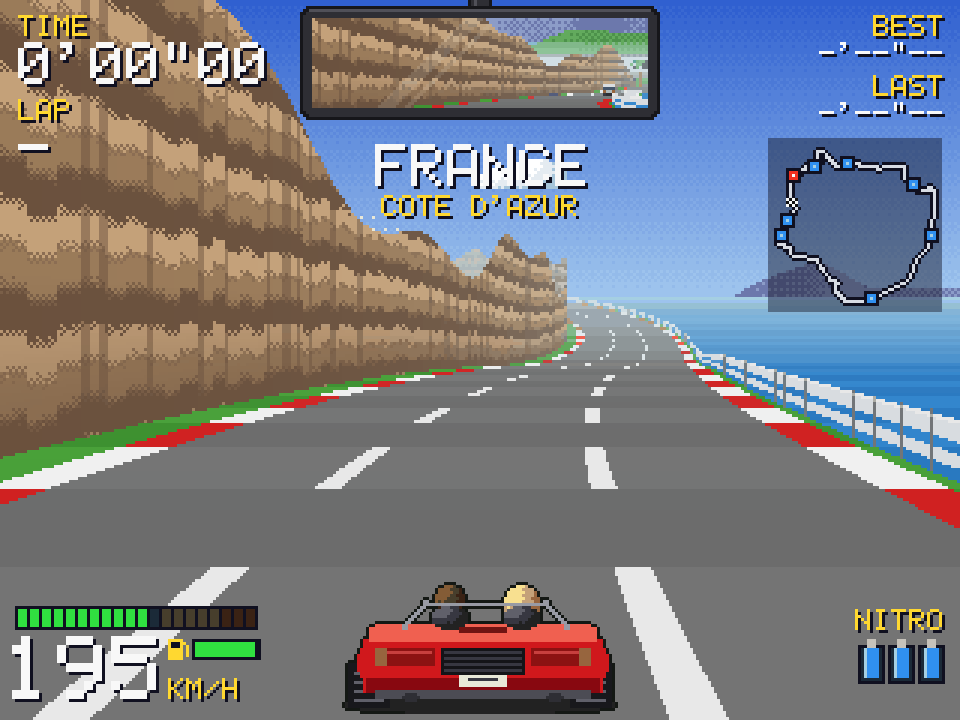
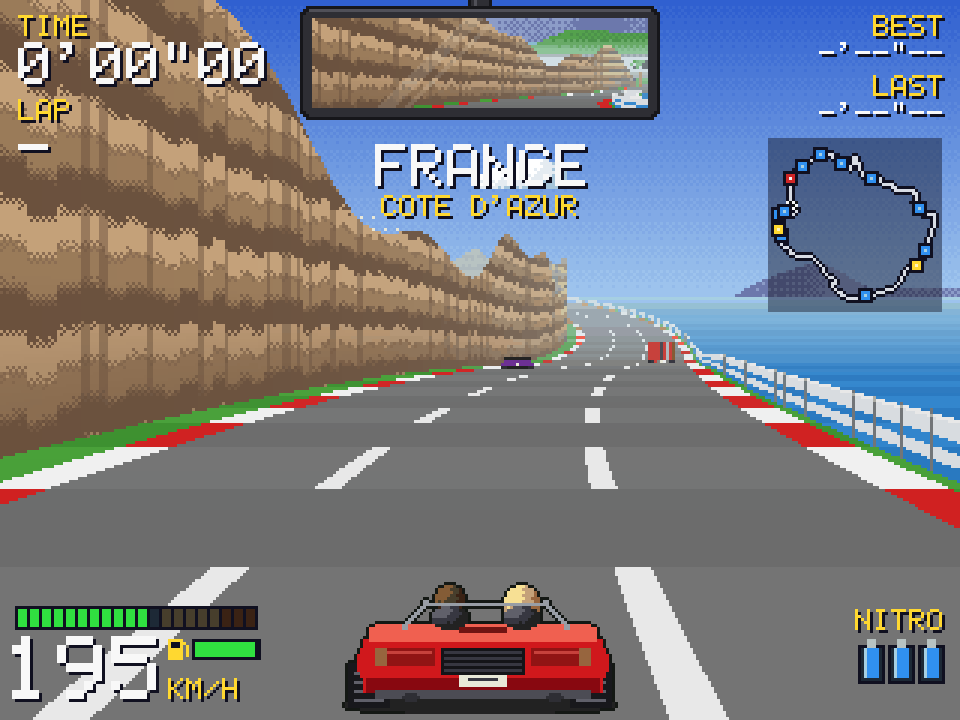
Document the new countries, oil slicks and car dealers
README: ten zones and road widths, oil slicks, car dealers, the headless
--car and --dealer; the man page and AppStream description name the new
countries and the dealers; TODO: this round; the zone sheet in five
columns; regenerated screenshots.

diff --git a/tools/make_screenshots.py b/tools/make_screenshots.py
@@ -73,7 +73,7 @@ def main():
 
         frames = [capture(binary, tmp, f"zone{index}", "--zone", str(index), "--frames", "150")
                   for index, _country, _region, _position in zone_positions(binary)]
-        columns, scale, gap = 4, 2, 6
+        columns, scale, gap = 5, 2, 6
         w, h = frames[0].size
         rows = (len(frames) + columns - 1) // columns
         sheet = Image.new("RGB", (columns * w * scale + (columns - 1) * gap,

diff --git a/README.md b/README.md
@@ -12,10 +12,10 @@ Packaged with a **Nix flake**.
 
 ![Kurvenrausch on the Cote d'Azur corniche](docs/screenshot.png)
 
-One lap takes you through seven zones, each with its own country, scenery,
+One lap takes you through ten zones, each with its own country, scenery,
 weather and road markings, fading smoothly into one another:
 
-![The seven zones: France, Germany, Switzerland, Italy, Arizona, California, San Francisco](docs/zones.png)
+![The ten zones: France, England, the Netherlands, Germany, Switzerland, Italy, Arizona, California, San Francisco, Japan](docs/zones.png)
 
 ## Features
 
@@ -23,12 +23,15 @@ weather and road markings, fading smoothly into one another:
   curves by accumulated lateral offset, hills and crests with correct
   occlusion, alternating rumble strips and grass bands, lane markings, a
   chequered start line, and distance fog
-- **Seven zones** with blended looks: the Cote d'Azur (palms, sunny), the Black
-  Forest (firs in the rain), the Alps (snowfall, chalets, a pass), Tuscany
-  (cypress avenues at sunset), Arizona (desert, cacti, mesas, telephone poles)
-  the California coast (sandstone cliff and sea in thick fog) and San
-  Francisco (steep streets between Victorian row houses); a banner
-  announces each country
+- **Ten zones** with blended looks: the Cote d'Azur (palms, sunny), England
+  (narrow lanes between hedgerows and stone walls, drizzle), the Netherlands
+  (dead flat: windmills, tulip fields, a canal), the Black Forest (firs in
+  the rain), the Alps (snowfall, chalets, a pass), Tuscany (cypress avenues at
+  sunset), Arizona (desert, cacti, mesas, telephone poles), the California
+  coast (sandstone cliff and sea in thick fog), San Francisco (steep streets
+  between Victorian row houses) and Japan (cherry blossom, shrine gates, a
+  snow-capped volcano); a banner announces each country. Roads differ in
+  width as well as in markings
 - **Cliffs and guard rails** along the road: strata-textured rock walls that
   rise and fall with the terrain, rails above the sea or a valley; both are
   solid, the car scrapes along them and throws sparks
@@ -36,7 +39,8 @@ weather and road markings, fading smoothly into one another:
   haze; wet and icy roads reduce grip. Driving, the rain and snow stream out
   of the vanishing point in ever longer streaks the faster you go
 - **Wet spots**: puddles on the road in the rainy and snowy zones; hit one
-  fast and the car aquaplanes, throwing up spray
+  fast and the car aquaplanes, throwing up spray. Rarely, an **oil slick**:
+  hardly any grip at all
 - Roadside scenery as scaled, fogged pixel-art sprites; objects behind a crest
   peek over it
 - Parallax backdrop: copper-banded sky, drifting clouds, mountains and hills
@@ -70,8 +74,11 @@ weather and road markings, fading smoothly into one another:
   forecourt to pull onto, where the tank fills up while you stand by the
   pumps. Run dry and the engine sputters and dies; stranded, the driver pours
   in a spare can after a few seconds
-- **Mini map** of the lap with your position, the start line and the gas
-  stations
+- **Car dealers**: stop at one and choose from four cars, the Spider, the GT
+  Coupe, the Hot Hatch and the Muscle car, each with its own top speed,
+  acceleration and grip
+- **Mini map** of the lap with your position, the start line, the gas
+  stations and the car dealers
 - **Synthesised sound**: a six-cylinder engine with exhaust pulses ringing a
   pipe and a body resonance for the bass, building with the revs, surging as
   the throttle opens and crackling on the overrun; gear changes, tyre squeal,
@@ -161,6 +168,8 @@ made and how rendering changes are checked without a display:
 ./build/kurvenrausch --screenshot shot.bmp --frames 3600 --horn       # honk all the way
 ./build/kurvenrausch --screenshot shot.bmp --frames 2400 --fuel 0.3   # low fuel: pulls in
 ./build/kurvenrausch --screenshot shot.bmp --frames 640 --steer -1 --steer-from 600  # crash
+./build/kurvenrausch --screenshot shot.bmp --zone 1 --frames 300 --car 2   # another car
+./build/kurvenrausch --screenshot shot.bmp --zone 5 --frames 2000 --dealer # visit a dealer
 ```
 
 It simulates the given number of 60 Hz steps with a simple autopilot that also

diff --git a/TODO.md b/TODO.md
@@ -21,6 +21,50 @@ Upstream master has since been fast-forwarded to `64fda32`, the tip of 002.1, so
 The rebase notes: upstream's rename is kept, its rendering fix is superseded by
 the road/framebuffer rewrite, `Color::to_u32()` became `Color::argb()`.
 
+## Round 10: more countries, narrow roads, oil, car dealers, done
+
+Requested: more countries, some with different streets (England with narrow
+roads); rare oil slicks; puddles mostly in the rain regions; a car
+dealership to change cars.
+
+Design decisions:
+
+- Puddles: the fair-weather chance dropped from 0.3% to 0.03% per segment;
+  the rest follows rain and snow. Tested per zone (dry zones at most 3,
+  properly wet ones at least 3, over ten times the density).
+- Road width (`RoadTheme::road_scale`, blended like the rest of a look):
+  `Track::half_width()` per boundary and `half_width_at()` along the track
+  replace the constant wherever half-widths meet world units (projection,
+  camera, scenery and traffic placement, fork offsets, the car against the
+  road). At the standard width renders are pixel-identical to before.
+- Zones (10 now): England (Cotswolds, road 0.62 wide, white edge lines, hedges
+  and dry-stone walls at 1.12, oaks, phone boxes, drizzle) and the Netherlands
+  (Holland: flat, tulips, windmills, a canal behind a rail) between France
+  and Germany; Japan (Fuji: cherry trees, torii, stone lanterns, a big
+  snow-capped mountain, road 0.75 wide) after San Francisco, ending the lap.
+  Each has a gas station. Traffic still all drives one way (no left-hand
+  traffic shown in England or Japan).
+- Patches: wet spots became `Segment::patch` (Water, Oil) with
+  `patch_under()`; rounder (root of a sine). Oil: about four a lap, any zone;
+  above 15% of top speed 8% grip, a twitch, the sprite flicking, squeal.
+- Cars: `CarModel` (Spider, GT Coupe, Hot Hatch, Muscle; top speed,
+  acceleration, grip factors; none dominates). `apply_car()` sets the Player;
+  grip multiplies the road's. Traffic and the speedometer use the standard top
+  speed (`base_max_speed_`), so km/h differ by car; the revs are the car's own.
+- Dealers: `TrackBuilder::car_dealer()` (a forecourt lot like a gas station's,
+  `Segment::dealer`, showroom and sign; refuelling ignores them), in Tuscany
+  and California. Stopped on the forecourt the HUD shows the offer; each push
+  of the steering changes car (with a chime); you leave in the one showing.
+  Headless `--car N` and `--dealer` (the autopilot pulls in and stays).
+
+Verified: builds warning-free; tests (puddles per zone, oil, road width
+blending and drawing, car models, sprites per model, zones by name);
+ASan+UBSan (a full lap in the Muscle car with sound, a dealer visit with a
+switch, an oil slick, steering crashes in England, Holland and Japan, the
+live loop); `reuse lint`; screenshots of the three countries, oil, puddles,
+the dealer and three other cars.
+Not verified: how the cars and the narrow lanes feel in play.
+
 ## Round 9: Linux desktop integration, done
 
 Requested: a man page, a .desktop file, an icon and the rest of the Linux
